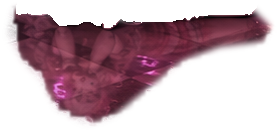
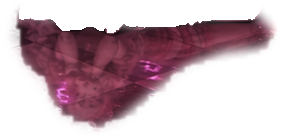
final layer

diff --git a/src/data/camera-layers.js b/src/data/camera-layers.js
@@ -1,10 +1,10 @@
 // Gerado por scripts/export_camera_layers.py.
 window.NathGame.cameraLayers = {
   "CAM01": {"size": [1672, 941], "layers": {"platinada": ["./public/images/cameras/CAM01/layers/platinada.webp", 699, 213, 145, 213], "original": ["./public/images/cameras/CAM01/layers/original.webp", 400, 142, 363, 744], "yandere": ["./public/images/cameras/CAM01/layers/yandere.webp", 1117, 256, 421, 685], "gotica": ["./public/images/cameras/CAM01/layers/gotica.webp", 1037, 51, 209, 491]}},
-  "CAM02": {"size": [1672, 941], "layers": {"original": ["./public/images/cameras/CAM02/layers/original.webp", 413, 275, 337, 666], "yandere": ["./public/images/cameras/CAM02/layers/yandere.webp", 1317, 330, 230, 347], "gotica": ["./public/images/cameras/CAM02/layers/gotica.webp", 797, 284, 260, 262], "platinada": ["./public/images/cameras/CAM02/layers/platinada.webp", 0, 472, 353, 449]}},
+  "CAM02": {"size": [1672, 941], "layers": {"original-saida": ["./public/images/cameras/CAM02/layers/original-saida.webp", 869, 185, 121, 273], "original": ["./public/images/cameras/CAM02/layers/original.webp", 413, 275, 337, 666], "yandere": ["./public/images/cameras/CAM02/layers/yandere.webp", 1317, 330, 230, 347], "gotica": ["./public/images/cameras/CAM02/layers/gotica.webp", 797, 284, 260, 262], "platinada": ["./public/images/cameras/CAM02/layers/platinada.webp", 0, 472, 353, 449]}, "outsidePosition": 8},
   "CAM04": {"open": {"size": [1629, 966], "layers": {"original": ["./public/images/cameras/CAM04/layers/open/original.webp", 386, 283, 279, 396], "yandere": ["./public/images/cameras/CAM04/layers/open/yandere.webp", 1066, 232, 171, 530], "gotica": ["./public/images/cameras/CAM04/layers/open/gotica.webp", 315, 187, 118, 359], "platinada": ["./public/images/cameras/CAM04/layers/open/platinada.webp", 1273, 164, 90, 151]}}, "closed": {"size": [1629, 966], "layers": {"original": ["./public/images/cameras/CAM04/layers/open/original.webp", 386, 283, 279, 396], "yandere": ["./public/images/cameras/CAM04/layers/open/yandere.webp", 1066, 232, 171, 530], "gotica": ["./public/images/cameras/CAM04/layers/closed/gotica.webp", 315, 188, 118, 358], "platinada": ["./public/images/cameras/CAM04/layers/open/platinada.webp", 1273, 164, 90, 151]}}},
   "CAM07": {"size": [1671, 941], "layers": {"original": ["./public/images/cameras/CAM07/layers/original.webp", 843, 156, 226, 437], "yandere": ["./public/images/cameras/CAM07/layers/yandere.webp", 1106, 214, 82, 209], "gotica": ["./public/images/cameras/CAM07/layers/gotica.webp", 288, 370, 426, 571], "platinada": ["./public/images/cameras/CAM07/layers/platinada.webp", 1145, 353, 366, 588]}},
-  "CAM08": {"size": [1671, 941], "layers": {"original": ["./public/images/cameras/CAM08/layers/original.webp", 1066, 140, 162, 339], "gotica": ["./public/images/cameras/CAM08/layers/gotica.webp", 496, 314, 203, 359], "yandere": ["./public/images/cameras/CAM08/layers/yandere.webp", 930, 456, 281, 416], "platinada": ["./public/images/cameras/CAM08/layers/platinada.webp", 720, 815, 480, 126]}},
+  "CAM08": {"size": [1671, 941], "layers": {"original-saida": ["./public/images/cameras/CAM08/layers/original-saida.webp", 269, 261, 141, 303], "original": ["./public/images/cameras/CAM08/layers/original.webp", 1066, 140, 162, 339], "gotica": ["./public/images/cameras/CAM08/layers/gotica.webp", 496, 314, 203, 359], "yandere": ["./public/images/cameras/CAM08/layers/yandere.webp", 930, 456, 281, 416], "platinada": ["./public/images/cameras/CAM08/layers/platinada.webp", 720, 815, 480, 126]}, "outsidePosition": 11},
   "CAM09": {"size": [1672, 941], "layers": {"maid": ["./public/images/cameras/CAM09/layers/maid.webp", 1180, 133, 314, 364], "maid-saindo": ["./public/images/cameras/CAM09/layers/maid-saindo.webp", 658, 153, 480, 626]}},
   "CAM10": {"size": [1672, 941], "layers": {"gotica": ["./public/images/cameras/CAM10/layers/gotica.webp", 574, 177, 198, 322], "maid": ["./public/images/cameras/CAM10/layers/maid.webp", 1154, 247, 235, 671], "original": ["./public/images/cameras/CAM10/layers/original.webp", 143, 318, 693, 623], "yandere": ["./public/images/cameras/CAM10/layers/yandere.webp", 1389, 236, 124, 352]}},
   "CAM11": {"size": [1672, 941], "layers": {"maid": ["./public/images/cameras/CAM11/layers/maid.webp", 1319, 113, 251, 426], "gotica": ["./public/images/cameras/CAM11/layers/gotica.webp", 1066, 357, 411, 519], "original": ["./public/images/cameras/CAM11/layers/original.webp", 455, 177, 289, 367], "yandere": ["./public/images/cameras/CAM11/layers/yandere.webp", 0, 303, 190, 638]}},

diff --git a/src/scene-art.js b/src/scene-art.js
@@ -68,7 +68,7 @@ function hasCameraState(cam, key) {
       && cameraLayerKeys(cam, key).length > 0));
 }
 
-function cameraFrame(cam, key, isGateClosed) {
+function cameraFrame(cam, key, isGateClosed, outside = false) {
   const gates = cam.gateStateImages?.gates;
   const gateKey = gates?.map(id => isGateClosed(id) ? 'closed' : 'open').join('-');
   const empty = cam.gateStateImages?.images ?? cam.image;
@@ -76,8 +76,9 @@ function cameraFrame(cam, key, isGateClosed) {
   const base = gates ? empty[gateKey] : empty;
   const art = gates ? variant?.[gateKey] : variant;
   const scene = cameraLayerScene(cam, gateKey);
-  if (!scene || art) return { key, gateKey, source: art ?? base };
-  const selected = cameraLayerKeys(cam, key);
+  if (!scene || (art && !outside)) return { key, gateKey, source: art ?? base };
+  let selected = key === 'todas' ? cam.allCharacters : cameraLayerKeys(cam, key);
+  if (outside) selected = selected.map(id => id === 'original' ? 'original-saida' : id);
   const layers = selectedLayers(scene, selected);
   return { key, gateKey, source: layers.length ? scene.base ?? base : base, layers, size: scene.size };
 }
@@ -88,7 +89,10 @@ function cameraActorFrame(cam, actors, config, isGateClosed, preview) {
     return { ...cameraFrame(cam, 'maid-saindo', isGateClosed), occupied: true };
   }
   const key = preview ?? cameraStateKey(cam, visibleActors, config.map.stage);
-  const frame = cameraFrame(cam, key, isGateClosed);
+  const outsidePosition = cameraLayerScene(cam)?.outsidePosition;
+  const outside = preview === undefined && outsidePosition !== undefined
+    && visibleActors.some(actor => actor.rule.artId === 'original' && actor.position === outsidePosition);
+  const frame = cameraFrame(cam, key, isGateClosed, outside);
   const variant = characterStateImages(cam)[key];
   const activeActorVisible = visibleActors.some(actor => actor.level !== 0);
   return { ...frame, occupied: Boolean(activeActorVisible

diff --git a/src/data/complex-layers.js b/src/data/complex-layers.js
@@ -50,10 +50,10 @@ window.NathGame.complexLayers = {
       ],
       "platinada+ambiente": [
         "./public/images/cameras/CAM06/layers/platinada+ambiente.webp",
-        1016,
-        403,
-        280,
-        132
+        1013,
+        398,
+        285,
+        140
       ],
       "platinada": [
         "./public/images/cameras/CAM06/layers/platinada.webp",
@@ -74,7 +74,7 @@ window.NathGame.complexLayers = {
         404,
         176,
         238,
-        344
+        308
       ]
     }
   },

diff --git a/src/data/local-config.js b/src/data/local-config.js
@@ -262,10 +262,7 @@ window.NathGame.localConfig = {
       "leftPanFraction": 0.55,
       "corridorPanFraction": 0.5
     },
-    "unillustratedCameraPositions": [
-      8,
-      11
-    ]
+    "unillustratedCameraPositions": []
   },
   "effects": {
     "cameraAudio": {

diff --git a/scripts/export_camera_layers.py b/scripts/export_camera_layers.py
@@ -2,6 +2,7 @@
 
 import json
 from pathlib import Path
+import sys
 
 import numpy as np
 from PIL import Image, ImageDraw, ImageFilter
@@ -9,6 +10,28 @@ from PIL import Image, ImageDraw, ImageFilter
 
 ROOT = Path(__file__).resolve().parents[1]
 CAMERAS = Path("public/images/cameras")
+# Contornos nas coordenadas do fundo, com o laço e o puxador em primeiro plano.
+EXITS = {
+    "CAM02": (8, "Recepção Cor-de-Rosa e Nathzinha Distante.png", [
+        (882,234),(889,234),(897,245),(903,222),(911,207),(923,195),(934,195),
+        (944,202),(951,216),(953,235),(962,253),(962,275),(966,291),(975,317),
+        (979,337),(974,345),(969,339),(964,325),(953,316),(951,332),(944,344),
+        (944,361),(941,378),(942,400),(941,416),(946,431),(945,446),(932,448),
+        (927,438),(928,417),(925,402),(925,381),(921,369),(917,378),(917,402),
+        (913,420),(916,430),(914,446),(902,446),(898,439),(901,423),(902,406),
+        (900,380),(897,360),(896,344),(888,333),(889,322),(899,308),(904,292),
+        (900,280),(891,284),(879,278),(881,258),(880,245)
+    ], [[(882,347),(886,341),(897,341),(905,347),(913,345),(926,341),(929,346),
+         (927,358),(918,360),(922,369),(913,372),(903,363),(894,372),(888,369),
+         (892,360),(883,359)]]),
+    "CAM08": (11, "Nathzinha no Estoque Sombrio.png", [
+        (289,430),(290,405),(299,369),(302,341),(310,320),(315,306),(327,294),
+        (344,286),(361,280),(379,281),(389,282),(389,400),(386,419),(385,454),
+        (383,487),(378,518),(367,540),(354,545),(340,541),(329,526),(321,504),
+        (314,481),(306,460),(294,450)
+    ], [[(378,400),(387,399),(398,402),(410,414),(409,489),(401,501),(386,500),
+         (378,492),(377,479),(381,468),(381,426),(376,418)]]),
+}
 # Ordem de pintura conferida contra os frames antigos com múltiplas personagens.
 ORDERS = {
     "CAM01": ("platinada", "original", "yandere", "gotica"),
@@ -178,9 +201,45 @@ def extract_layers(folder, state_folder, base_path, order, camera, shared=None):
     return {"size": [width, height], "layers": layers}
 
 
-def main():
-    catalog = {}
-    for camera, order in ORDERS.items():
+def export_exit_layers(catalog):
+    for camera, (position, filename, outline, obstructions) in EXITS.items():
+        folder = CAMERAS / camera
+        base = read_rgb(folder / "base.webp")
+        height, width, _ = base.shape
+        with Image.open(ROOT / "public/images" / filename) as image:
+            # As duas artes usam o enquadramento do fundo. A do estoque
+            # tem uma coluna extra na borda direita.
+            source = np.asarray(image.convert("RGB").crop((0, 0, width, height)), dtype=np.float32)
+
+        mask = Image.new("L", (width, height))
+        ImageDraw.Draw(mask).polygon(outline, fill=255)
+        mask = mask.filter(ImageFilter.GaussianBlur(3 if camera == "CAM02" else 7))
+        draw = ImageDraw.Draw(mask)
+        for obstruction in obstructions:
+            draw.polygon(obstruction, fill=0)
+        delta = (source - base) * (np.asarray(mask, dtype=np.float32)[..., None] / 255)
+        limit = np.maximum(np.where(delta > 0, 255 - base, base), 1)
+        minimum = np.max(np.abs(delta) / limit, axis=2)
+        strength = np.max(np.abs(delta), axis=2)
+        alpha = np.ceil(np.maximum(minimum, np.minimum(strength / 52, 1)) * 255)
+        rgb = base + delta * 255 / np.maximum(alpha[..., None], 1)
+        rgba = np.rint(np.dstack((rgb, alpha))).clip(0, 255).astype(np.uint8)
+        rgba[alpha == 0] = 0
+        layer = Image.fromarray(rgba)
+        x, y, right, bottom = layer.getbbox()
+        x, y, right, bottom = x - 2, y - 2, right + 2, bottom + 2
+        output = folder / "layers/original-saida.webp"
+        layer.crop((x, y, right, bottom)).save(ROOT / output, lossless=True, method=6)
+        scene = catalog[camera]
+        scene["layers"] = {"original-saida": ["./" + output.as_posix(), x, y, right - x, bottom - y],
+                           **scene["layers"]}
+        scene["outsidePosition"] = position
+
+
+def main(exits_only=False):
+    path = ROOT / "src/data/camera-layers.js"
+    catalog = json.loads(path.read_text(encoding="utf-8").split(" = ", 1)[1].strip().removesuffix(";")) if exits_only else {}
+    for camera, order in (() if exits_only else ORDERS.items()):
         folder = CAMERAS / camera
         states = folder / "states"
         base = folder / "base.webp"
@@ -193,13 +252,14 @@ def main():
             }
         else:
             catalog[camera] = extract_layers(folder / "layers", states, base, order, camera)
+    export_exit_layers(catalog)
     # Um registro por pose; as combinações são montadas pelo jogo.
     entries = ",\n".join(f'  "{key}": {json.dumps(value)}' for key, value in catalog.items())
-    (ROOT / "src/data/camera-layers.js").write_text(
+    path.write_text(
         "// Gerado por scripts/export_camera_layers.py.\n"
         "window.NathGame.cameraLayers = {\n" + entries + "\n};\n", encoding="utf-8"
     )
 
 
 if __name__ == "__main__":
-    main()
+    main(exits_only="--exits-only" in sys.argv[1:])

diff --git a/tests/test_camera_layers.py b/tests/test_camera_layers.py
@@ -51,12 +51,15 @@ for camera, catalog_entry in catalog.items():
             with Image.open(ROOT / source) as image:
                 assert image.mode == "RGBA" and image.size == (width, height), source
                 alpha = np.asarray(image.getchannel("A"))
-                assert np.any(alpha == 0) and np.any(alpha == 255), source
+                assert np.any(alpha == 0), source
+                if key != "original-saida":
+                    assert np.any(alpha == 255), source
                 assert np.any((alpha > 0) & (alpha < 255)), source
                 assert 0 <= x < x + width <= base.width and 0 <= y < y + height <= base.height, source
                 layers[key] = (image.copy(), (x, y))
         variants = list(old_states.glob("*.webp"))
-        assert len(variants) == (2 if camera == "CAM09" else 2 ** len(layers) - 2)
+        cast_size = len(layers) - int("original-saida" in layers)
+        assert len(variants) == (2 if camera == "CAM09" else 2 ** cast_size - 2)
         for original in variants:
             keys = [poses[original.stem]] if camera == "CAM09" else original.stem.split("-")
             assert set(keys) <= layers.keys(), original

diff --git a/scripts/export_complex_layers.py b/scripts/export_complex_layers.py
@@ -47,7 +47,7 @@ def register_pose(layers, key, footprint, source, base, scene, folder, previous=
         if scene == "CAM06" and key == "platinada":
             # A refletância termina no piso de forma gradual. Só a borda
             # da região de reflexo é suavizada, fora do matte da personagem.
-            coverage = np.asarray(Image.fromarray(coverage).filter(ImageFilter.GaussianBlur(3)))
+            coverage = np.asarray(Image.fromarray(coverage).filter(ImageFilter.GaussianBlur(5)))
         measured = np.asarray(footprint.crop(box))
         support[..., :3] = measured[..., :3]
         support[..., 3] = np.maximum(support[..., 3], np.rint(measured[..., 3] * (coverage.astype(np.float32) / 255)))
